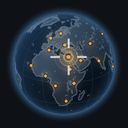
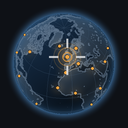
LiveArea art focused on Swansea, gate name moved up (00.27/00.28)
- The crosshair and rings mark Swansea in all three images.
- The background globe is turned so Swansea sits on the horizon left of
  the gate, with Europe and the Mediterranean to its right instead of
  open Atlantic.
- The gate's name is 28 px higher, clear of the Vita's Start button.

Changed region(s): [[0.0938, 0.0938, 0.9062, 0.875], [0.6875, 0.1875, 0.7188, 0.2188]]

diff --git a/tools/livearea_globe.py b/tools/livearea_globe.py
@@ -306,7 +306,9 @@ def font(path, size):
 
 # ---------------------------------------------------------------- images
 
-FOCUS = (30.0, 31.2)  # the place under the crosshair on the icon and gate
+# The place under the crosshair and rings in all three images: Swansea,
+# where DX Garden was made.
+FOCUS = (51.62, -3.94)
 
 
 def render():
@@ -333,18 +335,20 @@ def make_bg(land, lines):
     W, H = 840, 500
     c = new_canvas(W, H)
     vertical_gradient(c, BG, SKY_LOW, power=1.6)
-    # A big globe rising from the bottom, seen from orbit: the
-    # Mediterranean along the horizon, Africa below. The gate covers the
-    # middle of the LiveArea, so the focus place (Istanbul) sits to the
-    # right of it.
-    v = View(470 * SS, 1120 * SS, 790 * SS, -38.0, 10.0)
+    # A big globe rising from the bottom, seen from orbit, with the focus
+    # place (Swansea) on the horizon left of the gate, which covers the
+    # middle of the LiveArea. Swansea is on Europe's western edge, so with
+    # it on the left the horizon to its right is Europe, not the Atlantic
+    # (00.27 had it on the right). The view is solved so Swansea lands at
+    # about (176, 364).
+    v = View(370 * SS, 1120 * SS, 790 * SS, -26.5, 19.25)
 
     def under_globe(x, y):
         return (x - v.cx) ** 2 + (y - v.cy) ** 2 < (v.r * 1.08) ** 2
     stars(c, 170, seed=7, max_y=H * SS, avoid=under_globe)
     draw_globe(c, v, land, lines, coast_w=SS, border_w=SS, grid_w=SS, glow=0.11,
                coast_a=0.75, light=0.82)
-    draw_places(c, v, 3.2 * SS, focus=(41.0, 29.0), rings=6, ring_step=15 * SS,
+    draw_places(c, v, 3.2 * SS, focus=FOCUS, rings=6, ring_step=15 * SS,
                 ring_w=2 * SS, sep=14 * SS)
     # No title: the gate sits over the upper middle and covered it (00.25
     # on hardware), and the gate already carries the name.
@@ -364,9 +368,10 @@ def make_startup(land, lines):
     img = to_image(c, W, H)
 
     d = ImageDraw.Draw(img)
-    d.text((136, 50), "DX", font=font(FONT_BOLD, 30), fill=TEXT)
-    d.text((136, 80), "Garden", font=font(FONT_BOLD, 30), fill=TEXT)
-    d.rectangle([138, 122, 138 + 26, 124], fill=ACCENT)
+    # Kept high: the Vita draws its Start button over the bottom of the gate.
+    d.text((136, 22), "DX", font=font(FONT_BOLD, 30), fill=TEXT)
+    d.text((136, 52), "Garden", font=font(FONT_BOLD, 30), fill=TEXT)
+    d.rectangle([138, 94, 138 + 26, 96], fill=ACCENT)
     # A thin frame, as the gate sits on the LiveArea background.
     d.rectangle([0, 0, W - 1, H - 1], outline=(52, 62, 78))
     return img

diff --git a/NOTES.md b/NOTES.md
@@ -1194,3 +1194,26 @@ the AAC message, 404, HLS, and DNS retries with back-off. Fixes:
 - The gate's exact position is still not measured. If more needs to move,
   a photo of the LiveArea against the placeholder grid
   (`make_livearea.py placeholders`) would pin it down.
+
+## Build 00.27: Swansea, and the gate's name moved up
+
+- **00.26 on hardware:** much better, but the "DX Garden" name on the gate
+  sat close to the Start button the Vita draws over the bottom of it. The
+  name and its underline are now 28 px higher (underline at y 94-96 of
+  158).
+- **Focus moved to Swansea** (51.62 N, 3.94 W), where the tester lives, in
+  all three images: under the crosshair on the bubble and gate, and under
+  the rings on the background. The background globe is turned (view
+  centre 26.5 S, 27.25 W, solved numerically) so Swansea lands where
+  Istanbul was, right of the gate on the horizon; the North Atlantic now
+  fills the horizon.
+
+## Build 00.28: Swansea on the left of the gate
+
+- **00.27 on hardware:** it worked, but with Swansea right of the gate,
+  everything left of it on the horizon was Atlantic.
+- The background is mirrored in layout: the globe's centre is at x 370
+  (was 470) and the view (26.5 S, 19.25 E, solved numerically) puts
+  Swansea at about (176, 364), left of the gate. The horizon to its right
+  is now Europe, the Mediterranean, the Black Sea and the Middle East. The
+  rings span about x 85-265, clear of a centred 280 px gate.

diff --git a/README.md b/README.md
@@ -21,7 +21,7 @@ with the desktop script (see "Building a station list" below).
 
 ## Status
 
-Early development (build 00.26). It plays MP3 streams over HTTP and HTTPS
+Early development (build 00.28). It plays MP3 streams over HTTP and HTTPS
 from your own station list, which you can browse by country, city or genre,
 with favourites and recently played. Imported playlists can be given a place
 in the app. Build 00.07 adds the globe: turn it and stop the crosshair on a
